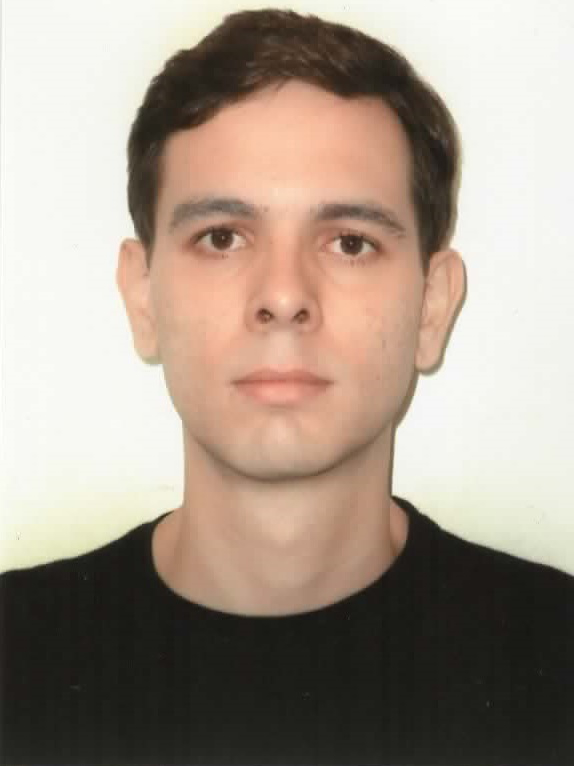
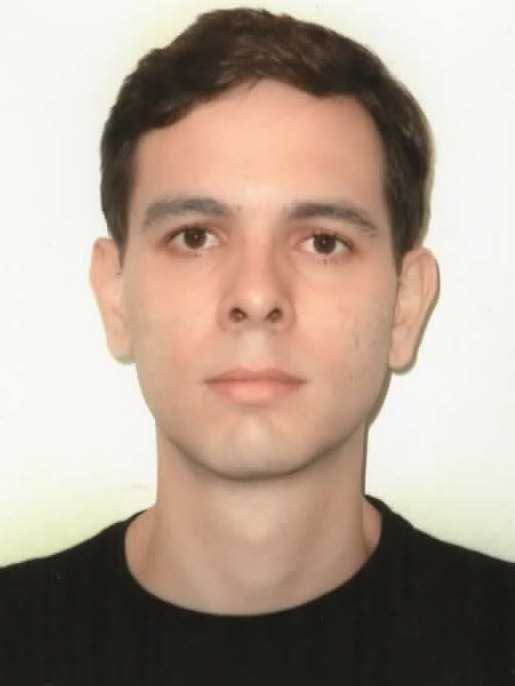
Atualiza site publicado

diff --git a/docs/css/egressos.css b/docs/css/egressos.css
@@ -107,7 +107,7 @@ h1 {
   object-position: center top;
   background: #dce3df;
 }
-.foto-placeholder { display: flex; align-items: center; justify-content: center; flex-direction: column; width: 100%; height: 100%; padding: 18px; color: #a94f2c; background: #fff0e8; text-align: center; }
+.foto-placeholder { position: absolute; inset: 0; display: flex; align-items: center; justify-content: center; flex-direction: column; padding: 18px; color: #a94f2c; background: #fff0e8; text-align: center; }
 .foto-placeholder[hidden] { display: none; }
 .iniciais { display: grid; place-items: center; width: 98px; height: 98px; margin-bottom: 20px; color: #fff9f5; background: #cf6741; border-radius: 50%; font-family: Georgia, "Times New Roman", serif; font-size: 2.15rem; letter-spacing: .05em; }
 .aviso-foto { color: currentColor; font-size: .62rem; font-weight: 800; letter-spacing: .12em; text-transform: uppercase; }

diff --git a/docs/js/egressos.js b/docs/js/egressos.js
@@ -55,7 +55,7 @@ function mostrarPlaceholder(foto, placeholder, egresso, tipo) {
   placeholder.hidden = false;
   placeholder.classList.toggle("sem-foto", tipo === "sem_foto");
   placeholder.querySelector(".iniciais").textContent = iniciais(egresso.nome).toLocaleUpperCase("pt-BR");
-  placeholder.querySelector(".aviso-foto").textContent = tipo === "sem_foto" ? "Busca concluída · sem foto" : "Foto ainda pendente";
+  placeholder.querySelector(".aviso-foto").textContent = tipo === "sem_foto" ? "Foto não encontrada" : "Foto pendente";
 }
 
 function criarCard(egresso) {
